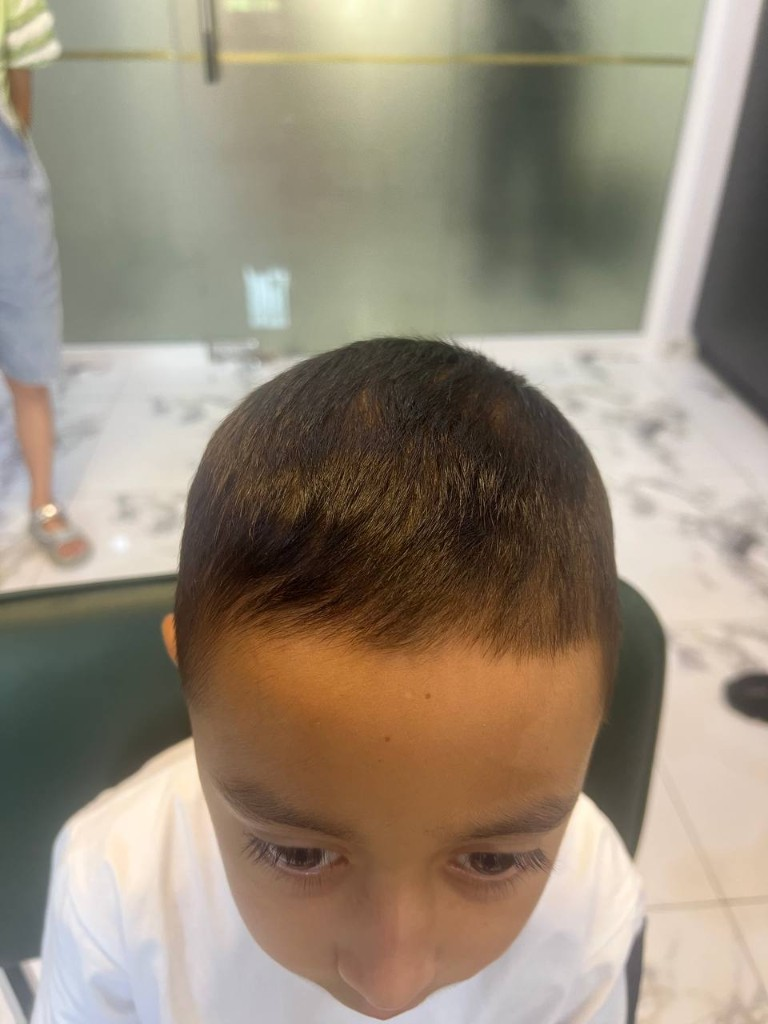
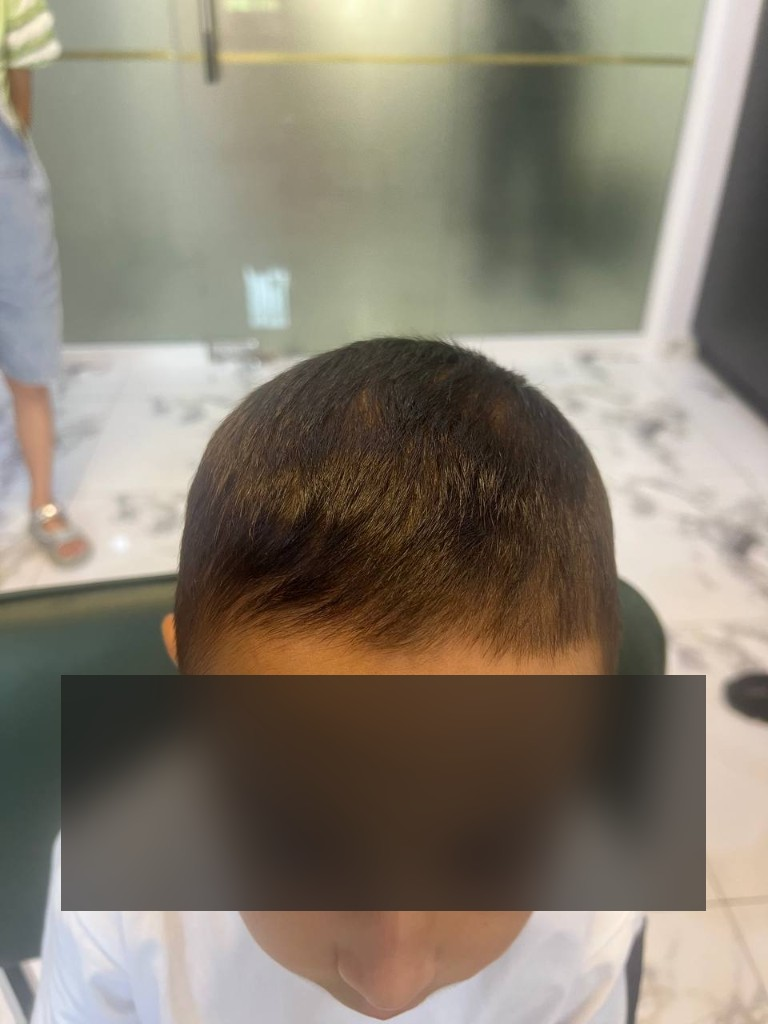
Mask pediatric eyes in alopecia result photos for privacy.
Apply blur and dark bars to child before/after and step images in Natijalar.

Changed region(s): [[0.0625, 0.6562, 0.9375, 0.9062]]

diff --git a/src/data/sitePagesContent.ts b/src/data/sitePagesContent.ts
@@ -46,6 +46,8 @@ export interface TreatmentResult {
   comparisonImage?: string;
   /** Oldin va keyin orasidagi davolash bosqichlari (qadam-baqadam) */
   journeyImages?: string[];
+  /** Bolalar suratlarida ko'zlar maxfiylik uchun yashirilgan */
+  privacyEyeMasked?: boolean;
   sessions: LocalizedText;
   sortOrder?: number;
   published?: boolean;
@@ -992,6 +994,7 @@ export const TREATMENT_RESULTS: TreatmentResult[] = [
   {
     id: 'alopecia-areata-boy-yoqubov',
     sortOrder: -2,
+    privacyEyeMasked: true,
     title: {
       uz: 'Bolada keng alopeciya areata',
       ru: 'Обширная алопеция areata у ребёнка',
@@ -1016,6 +1019,7 @@ export const TREATMENT_RESULTS: TreatmentResult[] = [
   {
     id: 'alopecia-areata-child-yoqubov',
     sortOrder: -1,
+    privacyEyeMasked: true,
     title: {
       uz: 'Bolalarda alopeciya areata',
       ru: 'Алопеция areata у ребёнка',

diff --git a/scripts/maskPediatricResultEyes.py b/scripts/maskPediatricResultEyes.py
@@ -1,0 +1,56 @@
+#!/usr/bin/env python3
+"""Pediatrik natija rasmlarida bolalar ko'zlarini yashirish (blur + qorong'u to'siq)."""
+from __future__ import annotations
+
+from pathlib import Path
+
+from PIL import Image, ImageFilter
+
+ROOT = Path(__file__).resolve().parents[1] / "public" / "results"
+
+# Normalized (x1, y1, x2, y2) — rasm o'lchamining ulushi
+EYE_MASKS: dict[str, tuple[float, float, float, float]] = {
+    "alopecia-areata-child-before.jpg": (0.16, 0.34, 0.84, 0.51),
+    "alopecia-areata-child-after.jpg": (0.18, 0.30, 0.82, 0.47),
+    "alopecia-areata-child-step-2.jpg": (0.22, 0.76, 0.78, 0.93),
+    "alopecia-areata-boy-before.jpg": (0.48, 0.38, 0.99, 0.55),
+    "alopecia-areata-boy-after.jpg": (0.42, 0.36, 0.98, 0.53),
+    "alopecia-areata-boy-step-3.jpg": (0.12, 0.78, 0.88, 0.97),
+    "alopecia-areata-boy-step-4.jpg": (0.08, 0.66, 0.92, 0.89),
+}
+
+
+def apply_eye_mask(path: Path, region_norm: tuple[float, float, float, float]) -> None:
+    image = Image.open(path).convert("RGB")
+    width, height = image.size
+    x1 = max(0, int(region_norm[0] * width))
+    y1 = max(0, int(region_norm[1] * height))
+    x2 = min(width, int(region_norm[2] * width))
+    y2 = min(height, int(region_norm[3] * height))
+
+    if x2 <= x1 or y2 <= y1:
+        raise ValueError(f"Invalid mask box for {path.name}: {(x1, y1, x2, y2)}")
+
+    region = image.crop((x1, y1, x2, y2))
+    blur_radius = max(14, min(width, height) // 35)
+    blurred = region.filter(ImageFilter.GaussianBlur(radius=blur_radius))
+
+    overlay = Image.new("RGB", (x2 - x1, y2 - y1), (24, 24, 24))
+    masked = Image.blend(blurred, overlay, alpha=0.62)
+
+    image.paste(masked, (x1, y1))
+    image.save(path, quality=90, optimize=True)
+    print(f"Masked {path.name}: ({x1}, {y1}) -> ({x2}, {y2})")
+
+
+def main() -> None:
+    for filename, region in EYE_MASKS.items():
+        path = ROOT / filename
+        if not path.exists():
+            print(f"Skip missing: {path}")
+            continue
+        apply_eye_mask(path, region)
+
+
+if __name__ == "__main__":
+    main()
